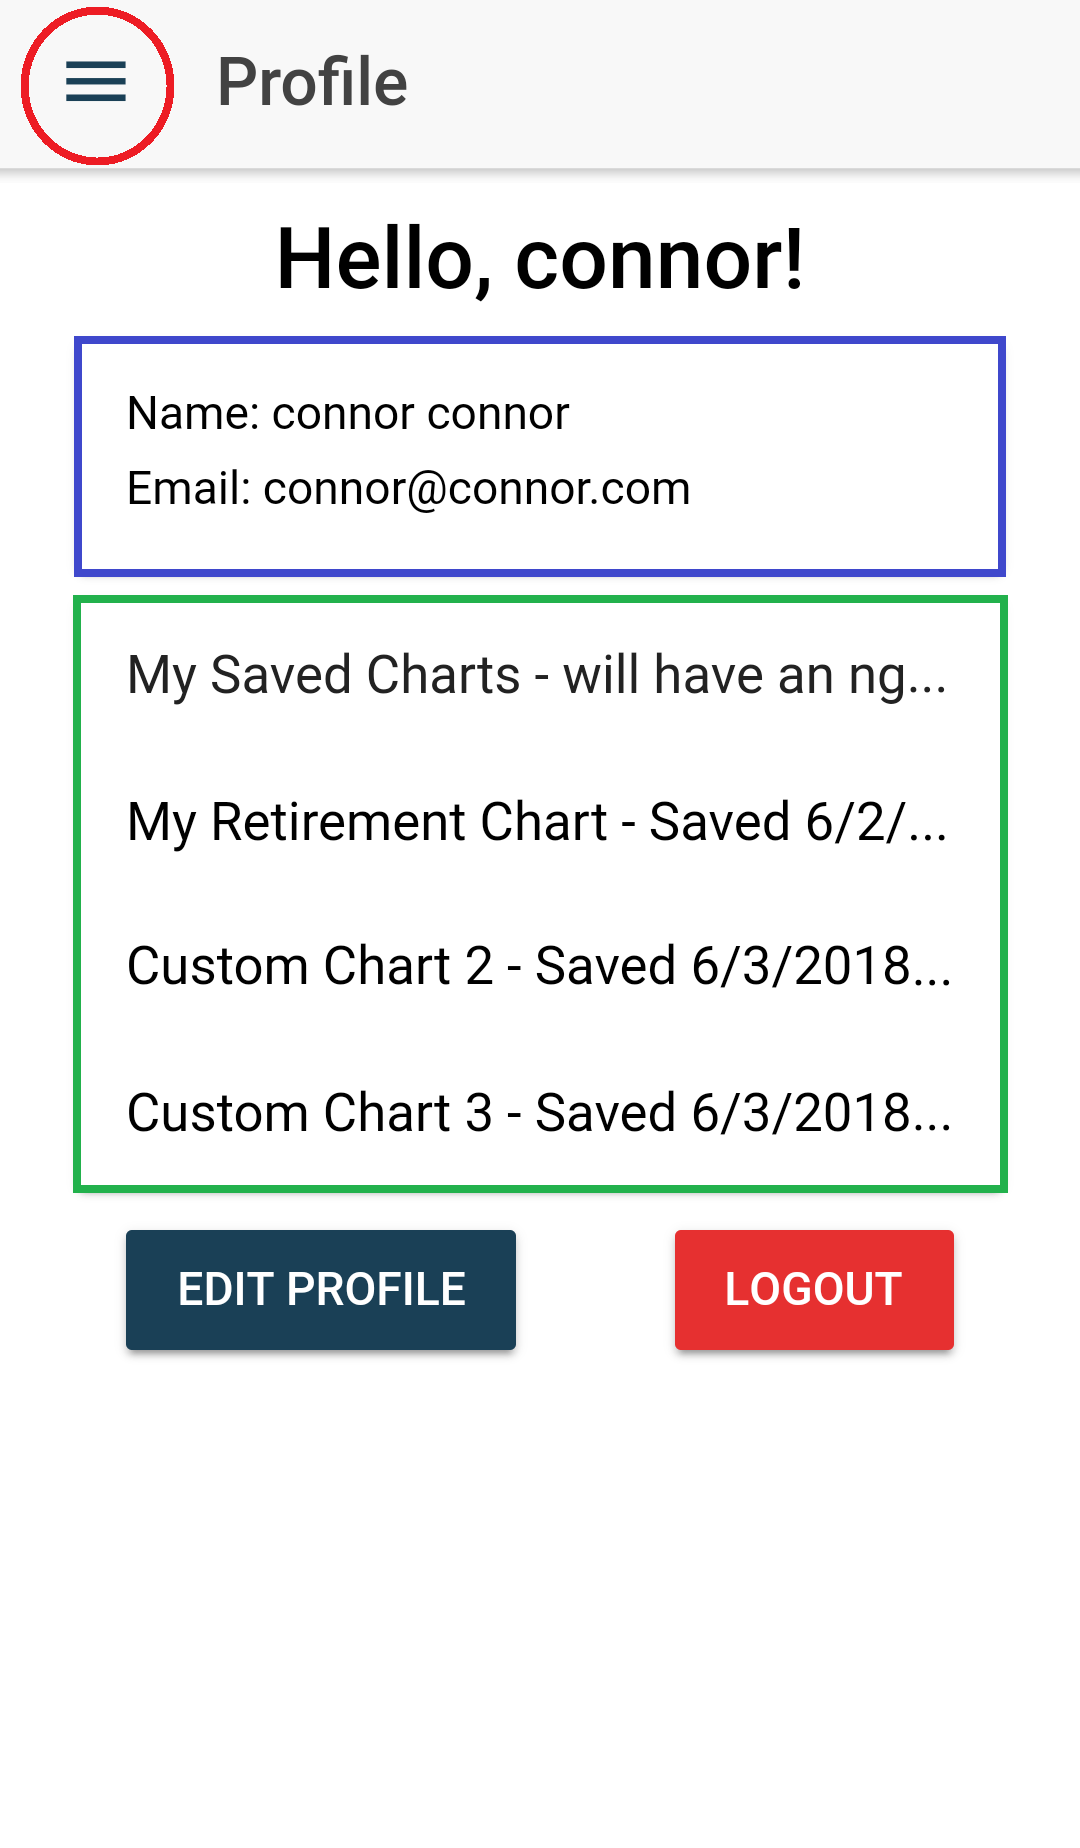
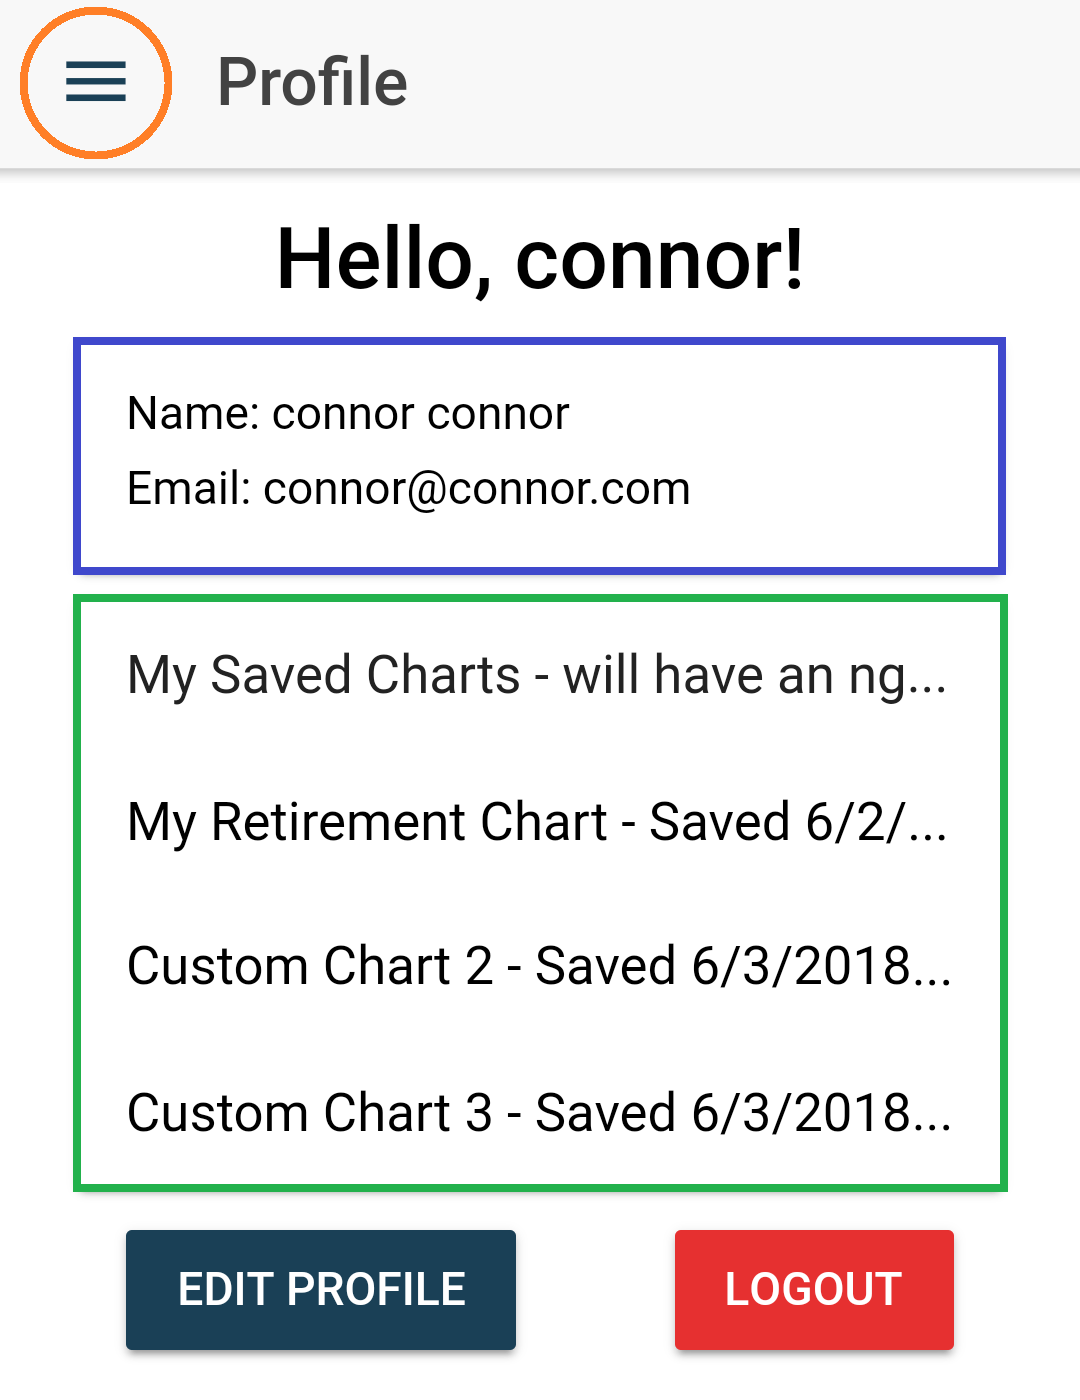
additional slide image cropping, improved color highlights

Changed region(s): [[0.0, 0.0, 1.0, 0.9829]]

diff --git a/src/pages/tutorial/tutorial.scss b/src/pages/tutorial/tutorial.scss
@@ -25,7 +25,7 @@ page-tutorial {
   p {
     padding: 0 40px;
     font-size: 14px;
-    line-height: 1.5;
+    line-height: 1.3;
     color: #60646B;
 
     b {
